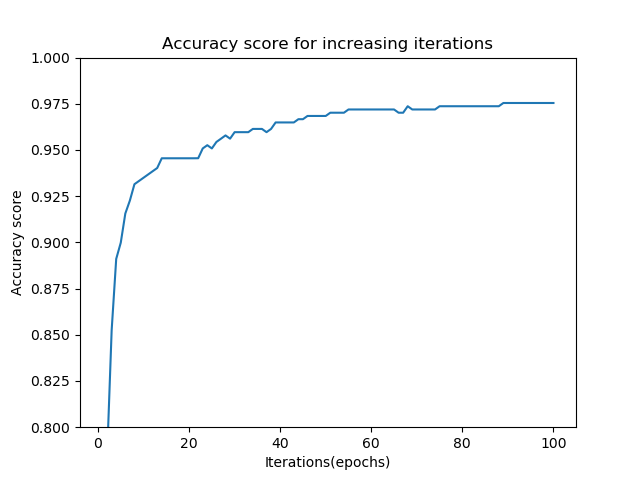
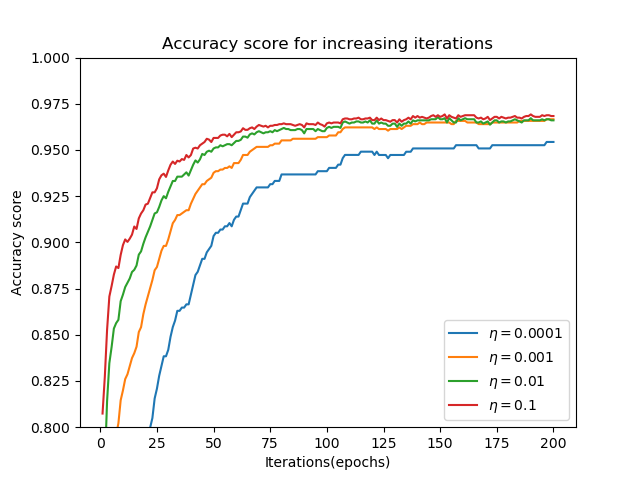
Added figures
Figures for grid search relu and sigmoid NN classification

diff --git a/project2/nnClassification.py b/project2/nnClassification.py
@@ -8,9 +8,8 @@ from sklearn.neural_network import MLPClassifier
 from sklearn.datasets import load_breast_cancer
 from sklearn.model_selection import KFold
 from sklearn.model_selection import KFold
-
-
-
+import seaborn as sns
+import pandas as pd
 class NN:
     def __init__(self,
                  X_train,
@@ -238,8 +237,8 @@ initialization = "Xavier"
 
 n_epochs = 200
 M = 10
-eta = 1e-3
-_lambda = 1e-7
+etas = [1e-4, 1e-3, 1e-2, 5e-2, 1e-1]
+lambdas = [1e-8, 1e-7, 1e-6, 1e-5, 1e-4, 1e-3, 1e-2, 1e-1, 1]
 
 
 '''--------------------------------------------------------------------------------
@@ -249,49 +248,76 @@ k = 10
 kfold = KFold(n_splits = k, shuffle=True)
 
 score_own_cvd = np.zeros(k)
+score_own_train_cvd = np.zeros(k)
 score_scikit_cvd = np.zeros(k)
-cv_split = 0
+score_scikit_train_cvd = np.zeros(k)
 
-scores_cvd = []
 
-for train_indexes, test_indexes in kfold.split(X):
-    X_train = X[train_indexes]
-    X_test = X[test_indexes]
-    t_train = targets[train_indexes]
-    t_test = targets[test_indexes]
+acc_grid_own = np.zeros((len(etas), len(lambdas)))
+acc_grid_own_train = np.zeros((len(etas), len(lambdas)))
+acc_grid_scikit = np.zeros((len(etas), len(lambdas)))
+acc_grid_scikit_train = np.zeros((len(etas), len(lambdas)))
+sns.set()
 
-    network1 = NN(X_train, X_test, t_train, t_test, n_hidden_layers, n_hidden_neurons, activation, initialization)
-    acs_epochs = network1.train(n_epochs, M, eta, _lambda)
-    pred = network1.predict(X_test)
-    acs_own = accuracy_score(t_test, pred)
+i = 0
+for eta in etas:
+    j = 0
+    for lmd in lambdas:
+        cv_split = 0
+        for train_indexes, test_indexes in kfold.split(X):
+            X_train = X[train_indexes]
+            X_test = X[test_indexes]
+            t_train = targets[train_indexes]
+            t_test = targets[test_indexes]
 
-    '''
-    clf = MLPClassifier(activation="logistic", solver="sgd", max_iter=n_epochs, hidden_layer_sizes=(n_hidden_neurons), batch_size=M, alpha=_lambda, learning_rate_init=eta)
-    clf.fit(X_train, t_train)
-    t_predict = clf.predict(X_test)
-    acs_scikit = accuracy_score(t_test, t_predict)
-    '''
+            #network1 = NN(X_train, X_test, t_train, t_test, n_hidden_layers, n_hidden_neurons, activation, initialization)
+            #network1.train(n_epochs, M, eta, lmd)
 
-    scores_cvd.append(acs_epochs)
-    score_own_cvd[cv_split] = acs_own
-    #score_scikit_cvd[cv_split] = acs_scikit
+            #pred = network1.predict(X_test)
+            #acs_own = accuracy_score(t_test, pred)
+            #score_own_cvd[cv_split] = acs_own
 
-    cv_split += 1
+            #pred_train = network1.predict(X_train)
+            #acs_own_train = accuracy_score(t_train, pred_train)
+            #score_own_train_cvd[cv_split] = acs_own_train
 
-cvd_averges_epochs = np.asarray(scores_cvd)
+            clf = MLPClassifier(activation="logistic", solver="sgd", max_iter=n_epochs, hidden_layer_sizes=(n_hidden_neurons), batch_size=M, alpha=lmd, learning_rate_init=eta)
+            clf.fit(X_train, t_train)
 
-accuracy_epochs = np.mean(cvd_averges_epochs, axis=0)
-accuracy_own = np.mean(score_own_cvd); print("Own DNN: ", accuracy_own)
-#accuracy_scikit = np.mean(score_scikit_cvd); print("Scikit DNN: ",accuracy_scikit)
+            #t_predict = clf.predict(X_test)
+            #acs_scikit = accuracy_score(t_test, t_predict)
+            #score_scikit_cvd[cv_split] = acs_scikit
 
-epochs = np.arange(1, n_epochs+1)
-plt.plot(epochs, accuracy_epochs)
-plt.ylim(0.97, 0.98)
-#plt.xlim(85,125)
-plt.ylabel("Accuracy score")
-plt.xlabel("Iterations(epochs)")
-plt.title("Accuracy score for increasing iterations")
+            t_predict_train = clf.predict(X_train)
+            acs_scikit_train = accuracy_score(t_train, t_predict_train)
+            score_scikit_train_cvd[cv_split] = acs_scikit_train
+
+            cv_split += 1
+
+        #accuracy_own = np.mean(score_own_cvd); print("eta, lambda: ({}, {}): Own DNN test: {}".format(eta,lmd,accuracy_own))
+        #acc_grid_own[i][j] = accuracy_own
+
+        #accuracy_own_train = np.mean(score_own_train_cvd); print("itr ({}, {}): Own DNN train: {}".format(i,j,accuracy_own_train))
+        #acc_grid_own_train[i][j] = accuracy_own_train
+
+        #accuracy_scikit = np.mean(score_scikit_cvd); print("itr ({}, {}): Scikit DNN: {}".format(i,j,accuracy_scikit))
+        #acc_grid_scikit[i][j] = accuracy_scikit
+
+        accuracy_scikit_train = np.mean(score_scikit_train_cvd); print("itr ({}, {}): Scikit DNN train: {}".format(i,j,accuracy_scikit_train))
+        acc_grid_scikit_train[i][j] = accuracy_scikit_train
+
+
+        j+= 1
+    i += 1
+test = pd.DataFrame(acc_grid_scikit_train, index = etas, columns = lambdas)
+fig, ax = plt.subplots()
+sns.heatmap(test, annot=True, ax=ax, cmap='viridis', fmt='.4f', vmax=1, vmin=0.95)
+ax.set_title('Train data accuracy score')
+ax.set_xlabel(r'$\lambda$')
+ax.set_ylabel(r'$\eta$')
 plt.show()
+
+
 
 '''--------------------------------------------------------------------------------
                                 #TEST netoworks

diff --git a/project2/tmp_jm.py b/project2/tmp_jm.py
@@ -1,9 +1,11 @@
 import numpy as np
 
-neurons = np.arange(20,300)
-neuron_score_own = np.zeros(len(neurons))
-neuron_score_scikit = np.zeros(len(neurons))
-i = 0
-for n_hidden_neurons in neurons:
-    print(n_hidden_neurons)
-    i+=1
+etas = [1e-5, 5e-5, 1e-4, 5e-4, 1e-3, 5e-3, 1e-2, 5e-2, 1e-1, 5e-1]
+lambdas = [1e-8, 1e-7, 1e-6, 1e-5, 1e-4, 1e-3, 1e-2, 1e-1, 1, 10]
+
+scores = np.zeros((len(etas), len(lambdas)))
+print(scores.shape)
+
+for eta in etas:
+    for lmd in lambdas:
+        print('hei')
